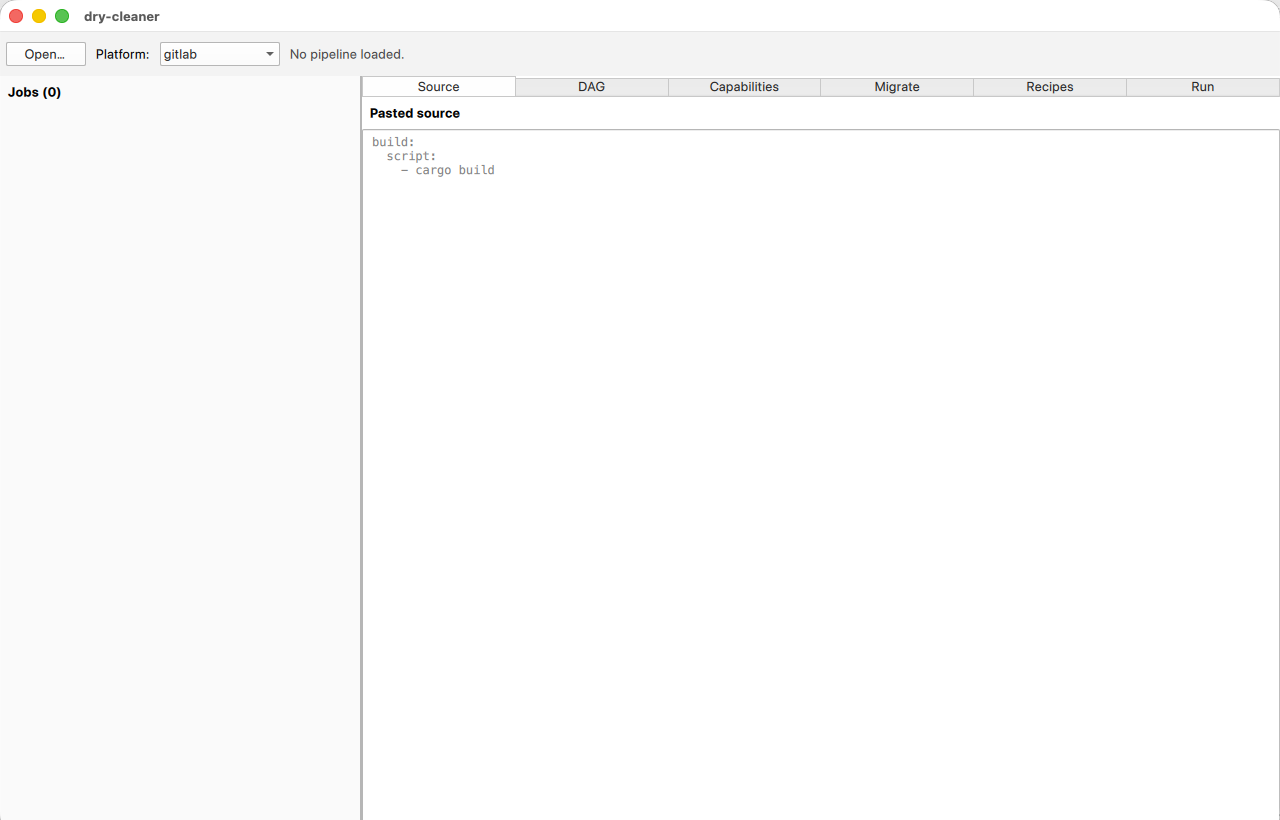
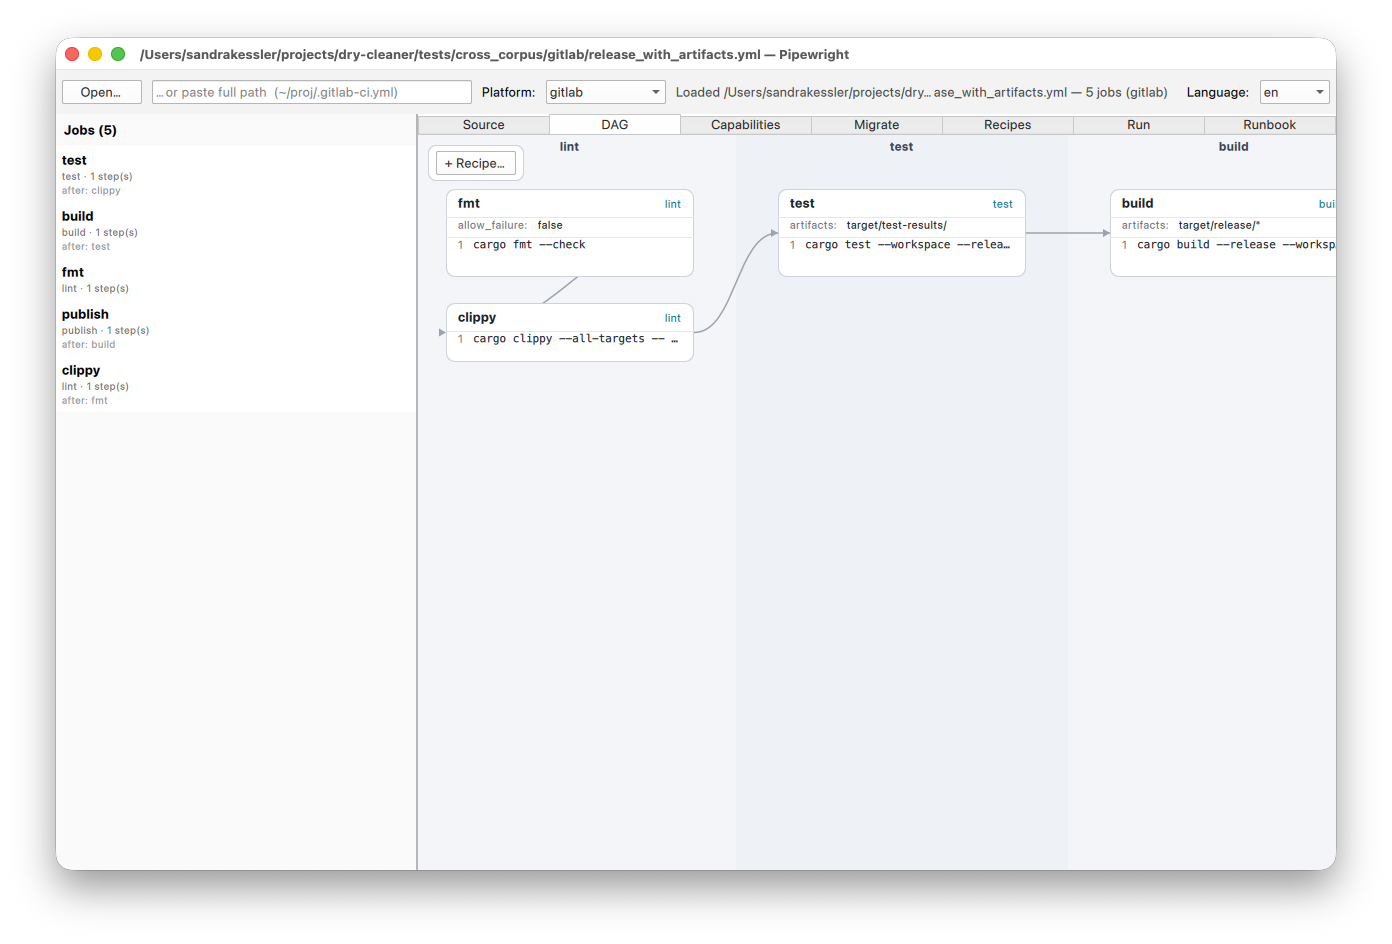
Release packaging + new screenshot
- Release builds the pipewright CLI for all platforms (UI installer best
  effort), so the release no longer fails on Qt packaging quirks.
- New README screenshot of the DAG view.
- Rename PIPEWRIGHT_SMOKE env vars.

Changed region(s): [[0.0, 0.0, 1.0, 0.9756], [0.4688, 0.2134, 0.5, 0.2439]]

diff --git a/ui/qt6/src/qml/Main.qml b/ui/qt6/src/qml/Main.qml
@@ -26,7 +26,7 @@ ApplicationWindow {
     // locale; the UI chrome follows via the Qt translator (see langCombo).
     property string appLocale: "en"
 
-    // Headless smoke self-check (DRYCLEANER_SMOKE=1, set as a context property
+    // Headless smoke self-check (PIPEWRIGHT_SMOKE=1, set as a context property
     // by main.cpp). Exercises the FFI bridge + a render path on the real UI and
     // exits with 0 (pass) / 1 (fail) — an end-to-end smoke test runnable
     // offscreen in CI. No-op in normal runs.
@@ -52,6 +52,19 @@ ApplicationWindow {
                 console.log("SMOKE: exception " + e + " => FAIL")
             }
             Qt.exit(ok ? 0 : 1)
+        }
+    }
+    // Screenshot mode: load the fixture and show the DAG tab, then leave the
+    // window up for a screen capture. No exit. (PIPEWRIGHT_SHOT=1)
+    Timer {
+        interval: 1400
+        running: (typeof shotMode !== "undefined") && shotMode
+        repeat: false
+        onTriggered: {
+            if (typeof smokeFile !== "undefined" && smokeFile && smokeFile.length > 0) {
+                root.loadFile("file://" + smokeFile)
+            }
+            rightTabs.currentIndex = 1   // DAG tab
         }
     }
     property string statusText: qsTr("No pipeline loaded.")

diff --git a/ui/qt6/src/main.cpp b/ui/qt6/src/main.cpp
@@ -12,14 +12,18 @@ int main(int argc, char *argv[]) {
     QQuickStyle::setStyle(QStringLiteral("Fusion"));
 
     QQmlApplicationEngine engine;
-    // Headless smoke mode (DRYCLEANER_SMOKE=1): Main.qml self-checks the FFI
+    // Headless smoke mode (PIPEWRIGHT_SMOKE=1): Main.qml self-checks the FFI
     // bridge + a render path and Qt.exit()s with a pass/fail code, so CI can
     // run the real UI offscreen as an end-to-end smoke test. The optional
-    // DRYCLEANER_SMOKE_FILE is loaded first.
+    // PIPEWRIGHT_SMOKE_FILE is loaded first.
     engine.rootContext()->setContextProperty(
-        QStringLiteral("smokeMode"), qEnvironmentVariableIsSet("DRYCLEANER_SMOKE"));
+        QStringLiteral("smokeMode"), qEnvironmentVariableIsSet("PIPEWRIGHT_SMOKE"));
     engine.rootContext()->setContextProperty(
-        QStringLiteral("smokeFile"), QString::fromUtf8(qgetenv("DRYCLEANER_SMOKE_FILE")));
+        QStringLiteral("smokeFile"), QString::fromUtf8(qgetenv("PIPEWRIGHT_SMOKE_FILE")));
+    // Screenshot mode (PIPEWRIGHT_SHOT=1): load PIPEWRIGHT_SMOKE_FILE and jump
+    // to the DAG tab, then leave the window up for a screen capture. No exit.
+    engine.rootContext()->setContextProperty(
+        QStringLiteral("shotMode"), qEnvironmentVariableIsSet("PIPEWRIGHT_SHOT"));
 
     QObject::connect(
         &engine, &QQmlApplicationEngine::objectCreationFailed,